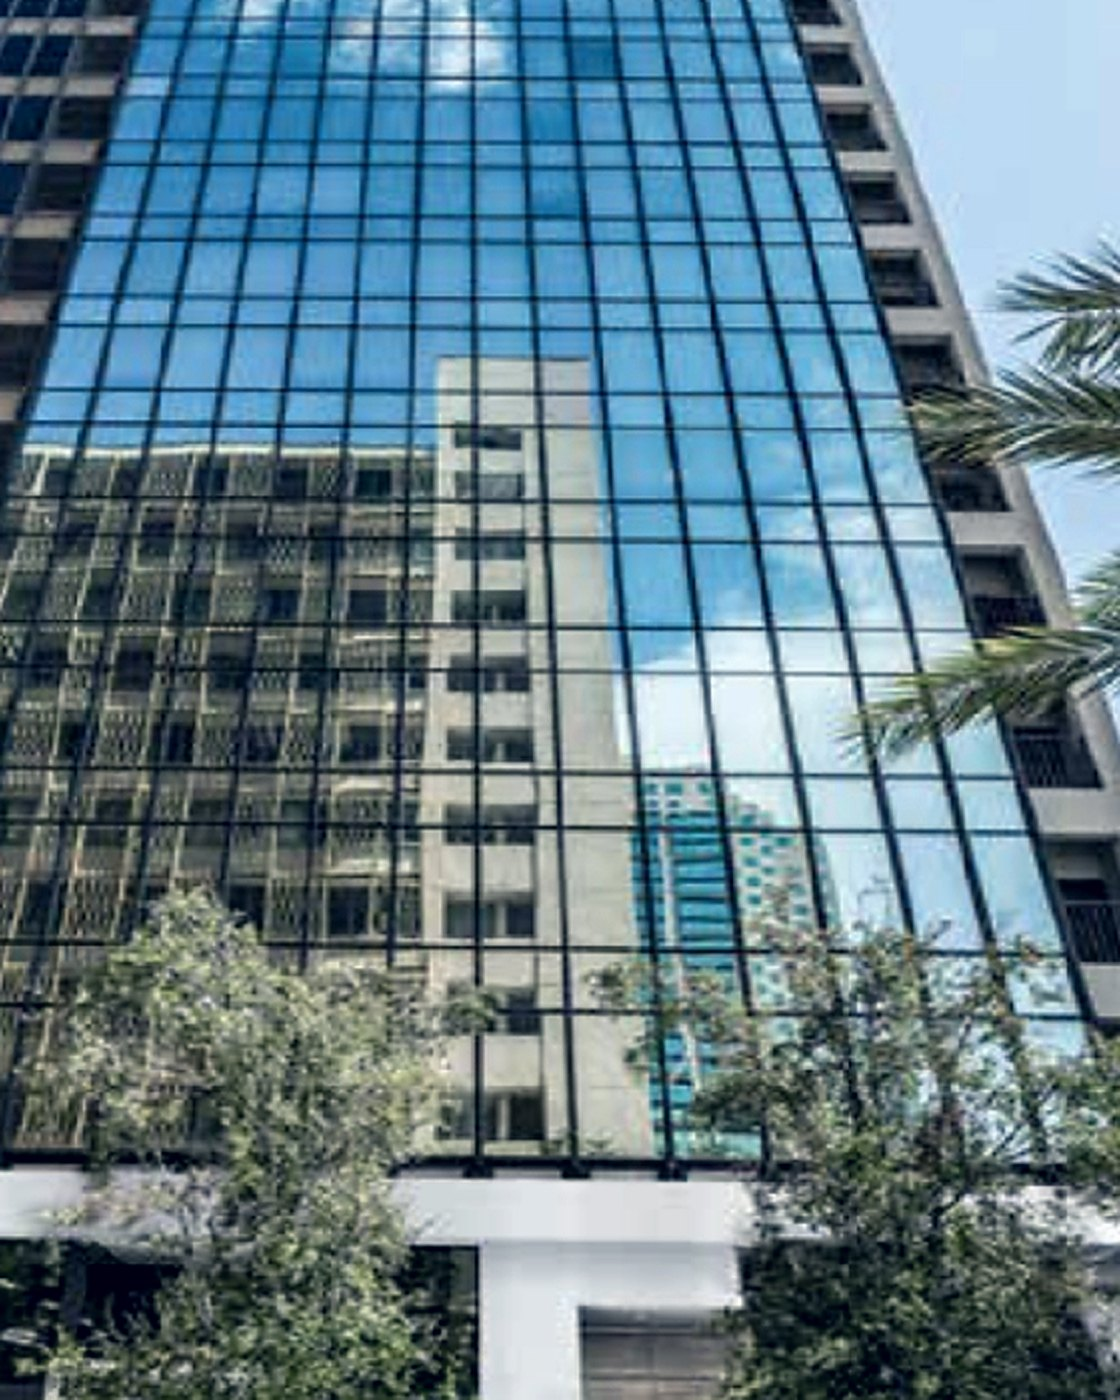
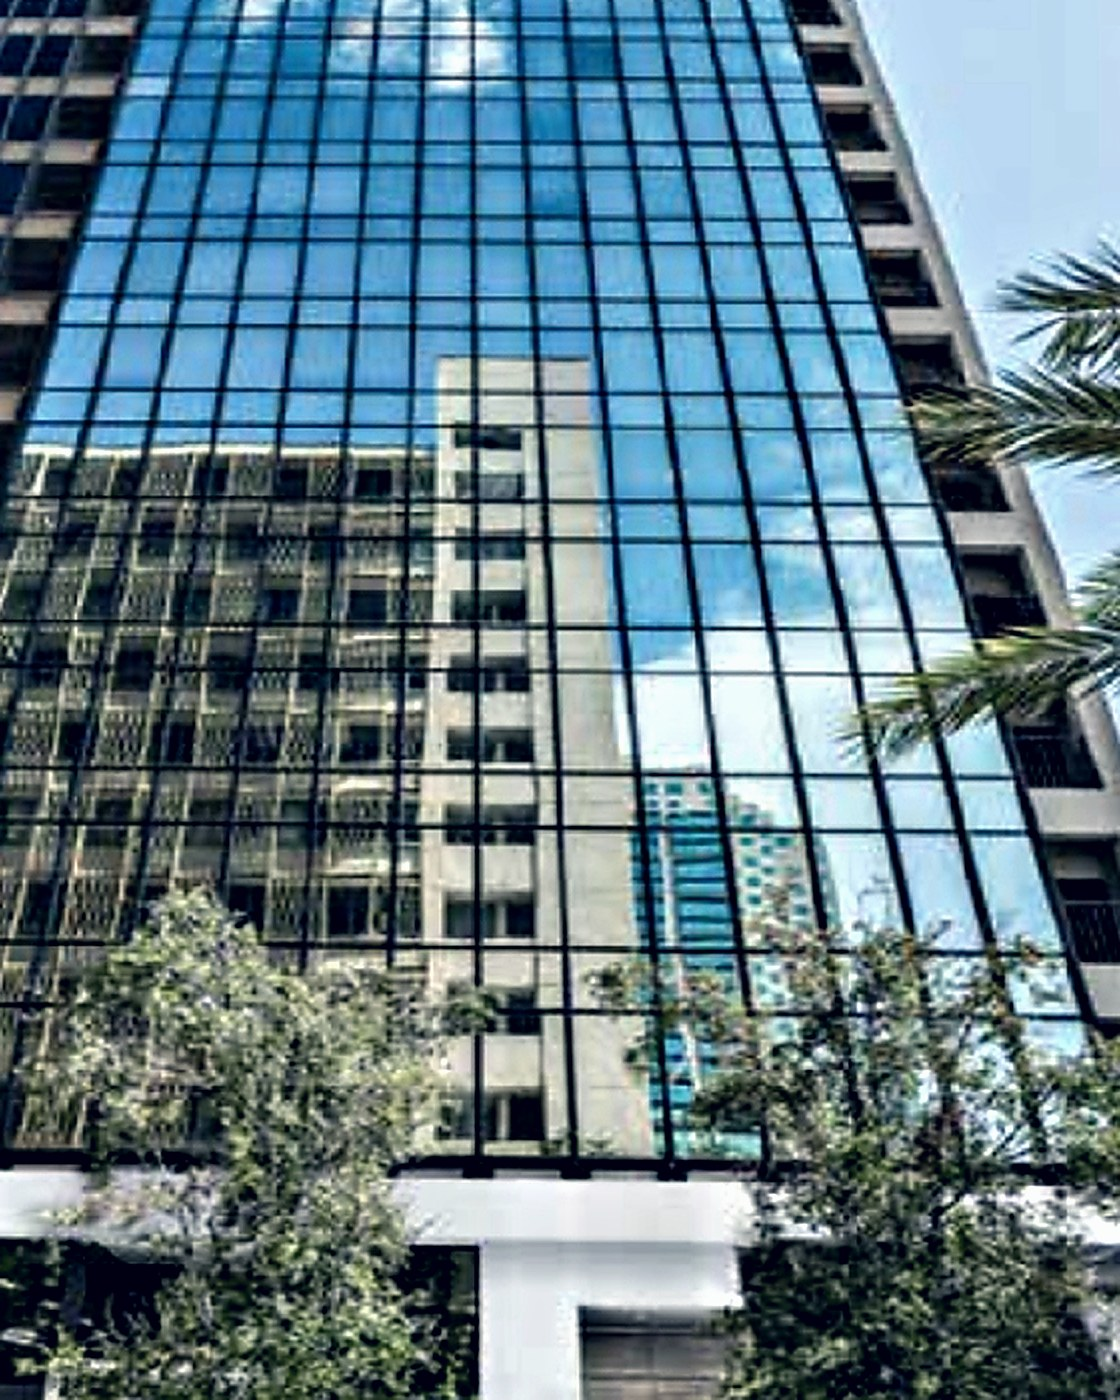
Sharpen the 44 W Flagler featured image
The softness was low micro-contrast in a reflective curtain wall rather
than missing detail, so the fix is applied to the image already in use.
A restrained large-radius local-contrast pass runs before the 2x upscale
and a firmer edge-masked sharpen after it, lifting measured edge energy
36% (5.30 -> 7.23). Mullions, the reflected facade and the balcony rows
resolve at 100% with no halos, no HDR look and the colour grade intact.
Architecture, perspective, signage and trees are untouched.

A replacement was tested first, since both halves of the stitched source
are 700x700 and neither has a larger original. The left frame measures
about 13% more edge energy but is dominated by street signage and For
Lease banners, so it reads as a leasing snapshot rather than a featured
asset and was rejected on tone.

Section content, layout, labels, facts and crop are unchanged.

diff --git a/build-images.py b/build-images.py
@@ -73,6 +73,15 @@ def edge_unsharp(im, amount=0.85, radius=1.15, edge_sigma=2.2, floor=0.18):
     return Image.fromarray(np.clip(out, 0, 255).astype(np.uint8))
 
 
+def local_contrast(im, amount=0.32, sigma=16.0):
+    """Large-radius, low-amount unsharp. Adds depth to flat, low-micro-contrast
+    surfaces such as reflective glass without haloing edges or faking HDR."""
+    arr = np.asarray(im, dtype=np.float32)
+    base = np.stack([_blur(arr[..., c], sigma) for c in range(3)], axis=-1)
+    out = arr + amount * (arr - base)
+    return Image.fromarray(np.clip(out, 0, 255).astype(np.uint8))
+
+
 def super_res_2x(im, amount=0.85):
     """Conservative 2x upscale. Used only where no larger original exists."""
     im = denoise(im)
@@ -159,9 +168,18 @@ emit(crop_ratio(hero_base, 16 / 9, (0.58, 0.30)), "hero", [2489, 1920, 1440, 102
 emit(crop_ratio(hero_base, 3 / 4, (0.60, 0.42)), "hero-portrait", [1050, 760, 560], 82)
 
 print("FEATURED  (44 W Flagler St, Miami — right half of a stitched 1400x700)")
+# Neither half of this stitched source has a larger original (700x700 each, and
+# the media API confirms 1400x700 is the full size). The left half measures
+# slightly more edge energy but is dominated by street signage and leasing
+# banners, so it does not carry a featured-asset frame. This tower view keeps
+# the section's tone; the softness was low micro-contrast in the reflective
+# glass rather than missing detail, so it gets a restrained local-contrast pass
+# before the upscale and a firmer edge-masked sharpen after it.
 fl = load("image41-1-1.jpg").crop((700, 0, 1400, 700))          # 700x700 native
-fl = grade(super_res_2x(fl, amount=1.0), sat=0.66, contrast=1.10)
-emit(crop_ratio(fl, 4 / 5, (0.52, 0.35)), "flagler", [1120, 800, 560], 86)
+fl = local_contrast(denoise(fl), amount=0.34, sigma=16.0)
+fl = grade(super_res_2x(fl, amount=1.15), sat=0.66, contrast=1.10)
+fl = edge_unsharp(fl, amount=0.34, radius=1.0, floor=0.16)
+emit(crop_ratio(fl, 4 / 5, (0.52, 0.35)), "flagler", [1120, 800, 560], 88)
 
 print("PORTFOLIO CARDS  (native resolution is already sufficient — sharpen only)")
 for name, f, anchor in [
